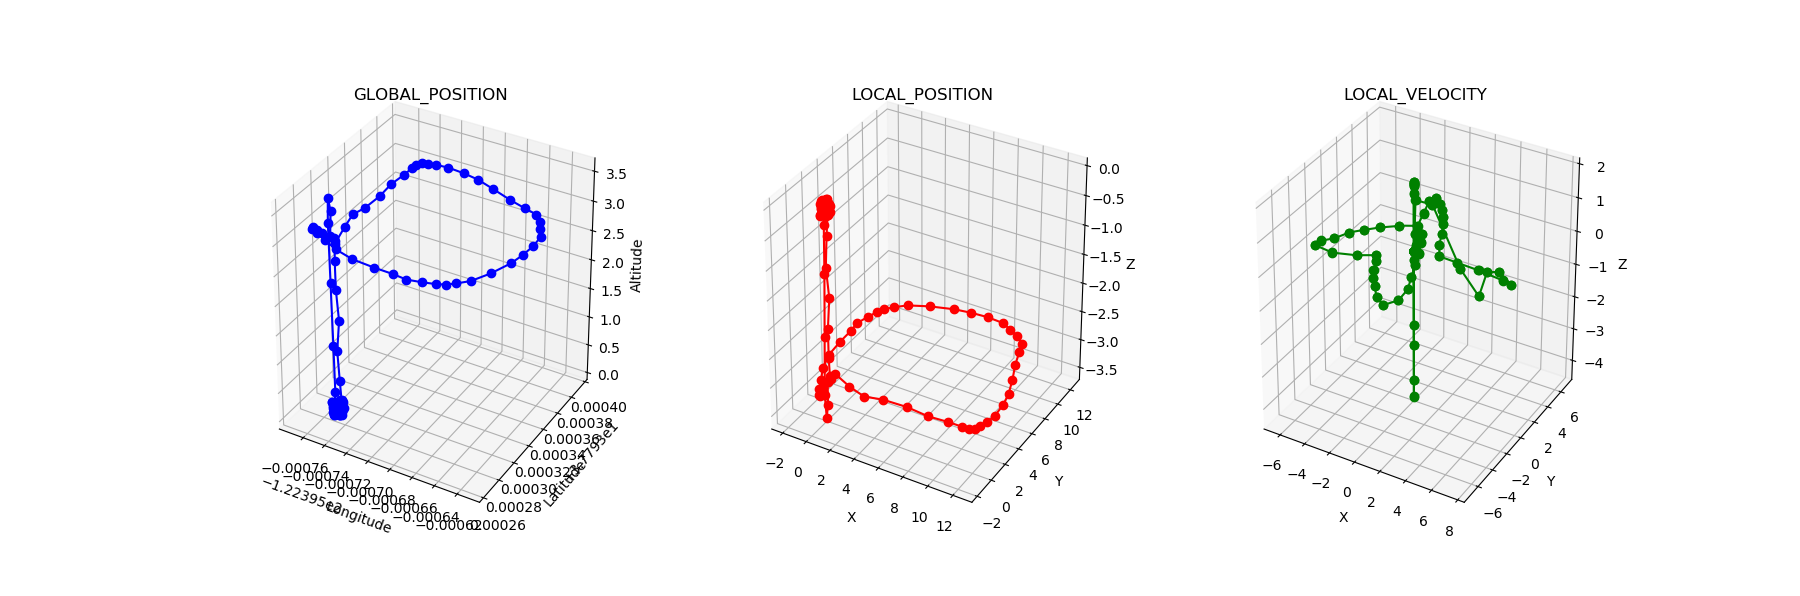
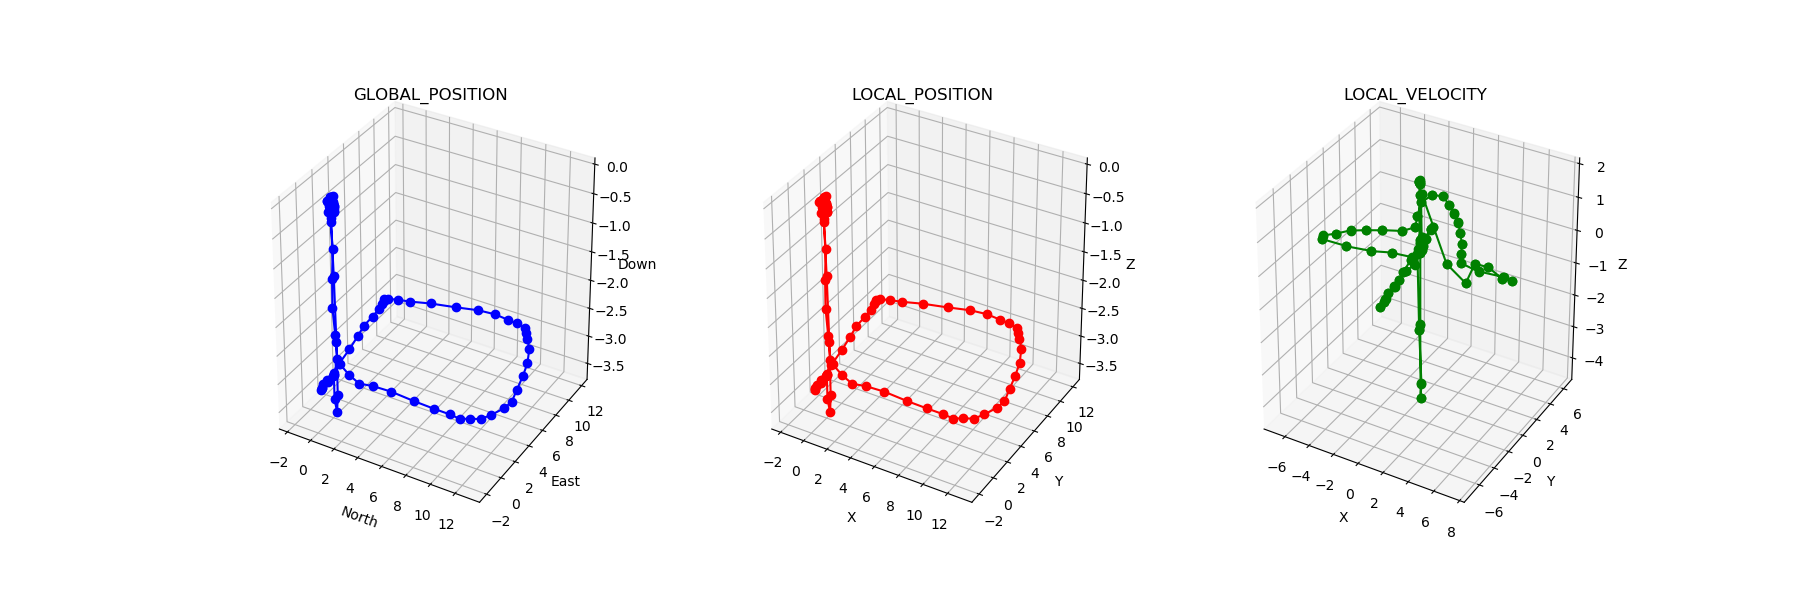
Changes to plot

diff --git a/Docs/drone_plot.py b/Docs/drone_plot.py
@@ -1,72 +1,96 @@
+
 import matplotlib.pyplot as plt
 from mpl_toolkits.mplot3d import Axes3D
-
-# Define the file content as a multiline string (for demonstration)
-data = """MsgID.GLOBAL_POSITION,0.0000000,-122.3957463,37.7932754,0.0970000
-MsgID.LOCAL_VELOCITY,0.0000000,0.0000000,0.0000000,0.0000000
-MsgID.LOCAL_POSITION,365.9500000,-0.2530547,0.4965539,-0.0977714
-MsgID.LOCAL_VELOCITY,365.9500000,0.0000000,0.0000000,-0.0000000
-MsgID.STATE,0.0000000,False,False,1
-MsgID.GLOBAL_HOME,0.0000000,-122.3957519,37.7932777,0.0000000
-MsgID.GLOBAL_POSITION,0.0000000,-122.3957472,37.7932743,0.1070000
-MsgID.LOCAL_VELOCITY,0.0000000,0.0000000,0.0000000,0.0000000
-MsgID.LOCAL_POSITION,366.1990000,-0.3784468,0.4144320,-0.1077293
-MsgID.LOCAL_VELOCITY,366.1990000,0.0000000,0.0000000,-0.0000000
-MsgID.GLOBAL_POSITION,0.0000000,-122.3957491,37.7932752,0.1160000
-MsgID.LOCAL_VELOCITY,0.0000000,0.0000000,0.0000000,0.0000000
-MsgID.LOCAL_POSITION,366.4510000,-0.2814083,0.2522061,-0.1162527
-MsgID.LOCAL_VELOCITY,366.4510000,0.0000000,0.0000000,-0.0000000
-MsgID.GLOBAL_POSITION,0.0000000,-122.3957489,37.7932756,0.1190000
-MsgID.LOCAL_VELOCITY,0.0000000,0.0000000,0.0000000,0.0000000
-MsgID.LOCAL_POSITION,366.7010000,-0.2285752,0.2638063,-0.1197982
-MsgID.LOCAL_VELOCITY,0.0000000,0.0000000,-0.0000000
-MsgID.GLOBAL_POSITION,0.0000000,-122.3957465,37.7932756,0.1150000
-MsgID.LOCAL_VELOCITY,0.0000000,0.0000000,0.0000000,0.0000000
-MsgID.LOCAL_POSITION,366.9500000,-0.2285817,0.4805351,-0.1153730
-MsgID.LOCAL_VELOCITY,0.0000000,0.0000000,-0.0000000
-MsgID.STATE,0.0000000,False,False,1
-MsgID.GLOBAL_HOME,0.0000000,-122.3957519,37.7932777,0.0000000
-MsgID.GLOBAL_POSITION,0.0000000,-122.3957487,37.7932756,0.1010000
-MsgID.LOCAL_VELOCITY,0.0000000,0.0000000,0.0000000,0.0000000
-MsgID.LOCAL_POSITION,367.2010000,-0.2288662,0.2863339,-0.1013307
-MsgID.LOCAL_VELOCITY,367.2010000,0.0000000,0.0000000,-0.0000000
-MsgID.GLOBAL_POSITION,0.0000000,-122.3957489,37.7932756,0.0770000"""
+import utm
 
 
+
+# Read the data from TLog.txt
 with open('..\Logs\TLog.txt', 'r') as file:
     data = file.read()
 
+
+def global_to_local(global_position, global_home):
+    """
+    Convert a global position (lon, lat, up) to a local position (north, east, down) relative to the home position.
+
+    Returns:
+        numpy array of the local position [north, east, down]
+    """
+    (east_home, north_home, _, _) = utm.from_latlon(global_home[1], global_home[0])
+    (east, north, _, _) = utm.from_latlon(global_position[1], global_position[0])
+
+    #local_position = np.array([north - north_home, east - east_home, -global_position[2]])
+    local_position = [north - north_home, east - east_home, -global_position[2]]
+    return local_position
+
+
+def local_to_global(local_position, global_home):
+    """
+    Convert a local position (north, east, down) relative to the home position to a global position (lon, lat, up)
+
+    Returns:
+        numpy array of the global position [longitude, latitude, altitude]
+    """
+    (east_home, north_home, zone_number, zone_letter) = utm.from_latlon(global_home[1], global_home[0])
+    (lat, lon) = utm.to_latlon(east_home + local_position[1], north_home + local_position[0], zone_number, zone_letter)
+
+    lla = [lon, lat, -local_position[2]]
+    return lla
+
+# Initialize lists to store GLOBAL_POSITION and LOCAL_POSITION data
+global_position = []
+local_position = []
+local_velocity = []
+global_home = []
+
 # Parse the data
-xyz_data = []
-
 for line in data.splitlines():
-    #if line.startswith("MsgID.LOCAL_POSITION"):
-    if line.startswith("MsgID.GLOBAL_POSITION"):
-        parts = line.split(',')
-        # Extracting x, y, z coordinates (ignoring the first value and the last)
-        x = float(parts[2])
-        y = float(parts[3])
-        z = float(parts[4])
-        xyz_data.append((x, y, z))
-        print(line, x, y, z)
-    if line.startswith("MsgID.LOCAL_POSITION"):
-        print(line)
+    parts = line.split(',')
+    msg_id = parts[0]
+    if msg_id == 'MsgID.GLOBAL_POSITION' and len(global_home) > 0:
+        global_lat_lon = [float(parts[2]), float(parts[3]), float(parts[4])]
+        local_NED = global_to_local(global_lat_lon, global_home)
+        global_position.append(local_NED)
+    elif msg_id == 'MsgID.GLOBAL_HOME':
+        global_home = [float(parts[2]), float(parts[3]), float(parts[4])]
+    elif msg_id == 'MsgID.LOCAL_POSITION':
+        local_position.append([float(parts[2]), float(parts[3]), float(parts[4])])
+    elif msg_id == 'MsgID.LOCAL_VELOCITY':
+        local_velocity.append([float(parts[2]), float(parts[3]), float(parts[4])])
+
+# Extract X, Y, Z coordinates for each position type
+global_x, global_y, global_z = zip(*global_position)
+local_x, local_y, local_z = zip(*local_position)
+vel_x, vel_y, vel_z = zip(*local_velocity)
+
+# Create a 3D subplot with 3 subplots side by side
+fig = plt.figure(figsize=(18, 6))
 
 
-# Unpack the XYZ coordinates
-xs, ys, zs = zip(*xyz_data)
+# Plot GLOBAL_POSITION
+ax1 = fig.add_subplot(131, projection='3d')
+ax1.plot(global_x, global_y, global_z, marker='o', linestyle='-', color='b')
+ax1.set_title('GLOBAL_POSITION')
+ax1.set_xlabel('North')
+ax1.set_ylabel('East')
+ax1.set_zlabel('Down')
 
-# Plot the data
-fig = plt.figure()
-ax = fig.add_subplot(111, projection='3d')
+# Plot LOCAL_POSITION
+ax2 = fig.add_subplot(132, projection='3d')
+ax2.plot(local_x, local_y, local_z, marker='o', linestyle='-', color='r')
+ax2.set_title('LOCAL_POSITION')
+ax2.set_xlabel('X')
+ax2.set_ylabel('Y')
+ax2.set_zlabel('Z')
 
-ax.plot(xs, ys, zs, marker='o', linestyle='-', color='b')
+# Plot LOCAL_VELOCITY
+ax3 = fig.add_subplot(133, projection='3d')
+ax3.plot(vel_x, vel_y, vel_z, marker='o', linestyle='-', color='g')
+ax3.set_title('LOCAL_VELOCITY')
+ax3.set_xlabel('X')
+ax3.set_ylabel('Y')
+ax3.set_zlabel('Z')
 
-# Set labels
-ax.set_xlabel('X')
-ax.set_ylabel('Y')
-ax.set_zlabel('Z')
-
+# Show the plots
 plt.show()
-
-
